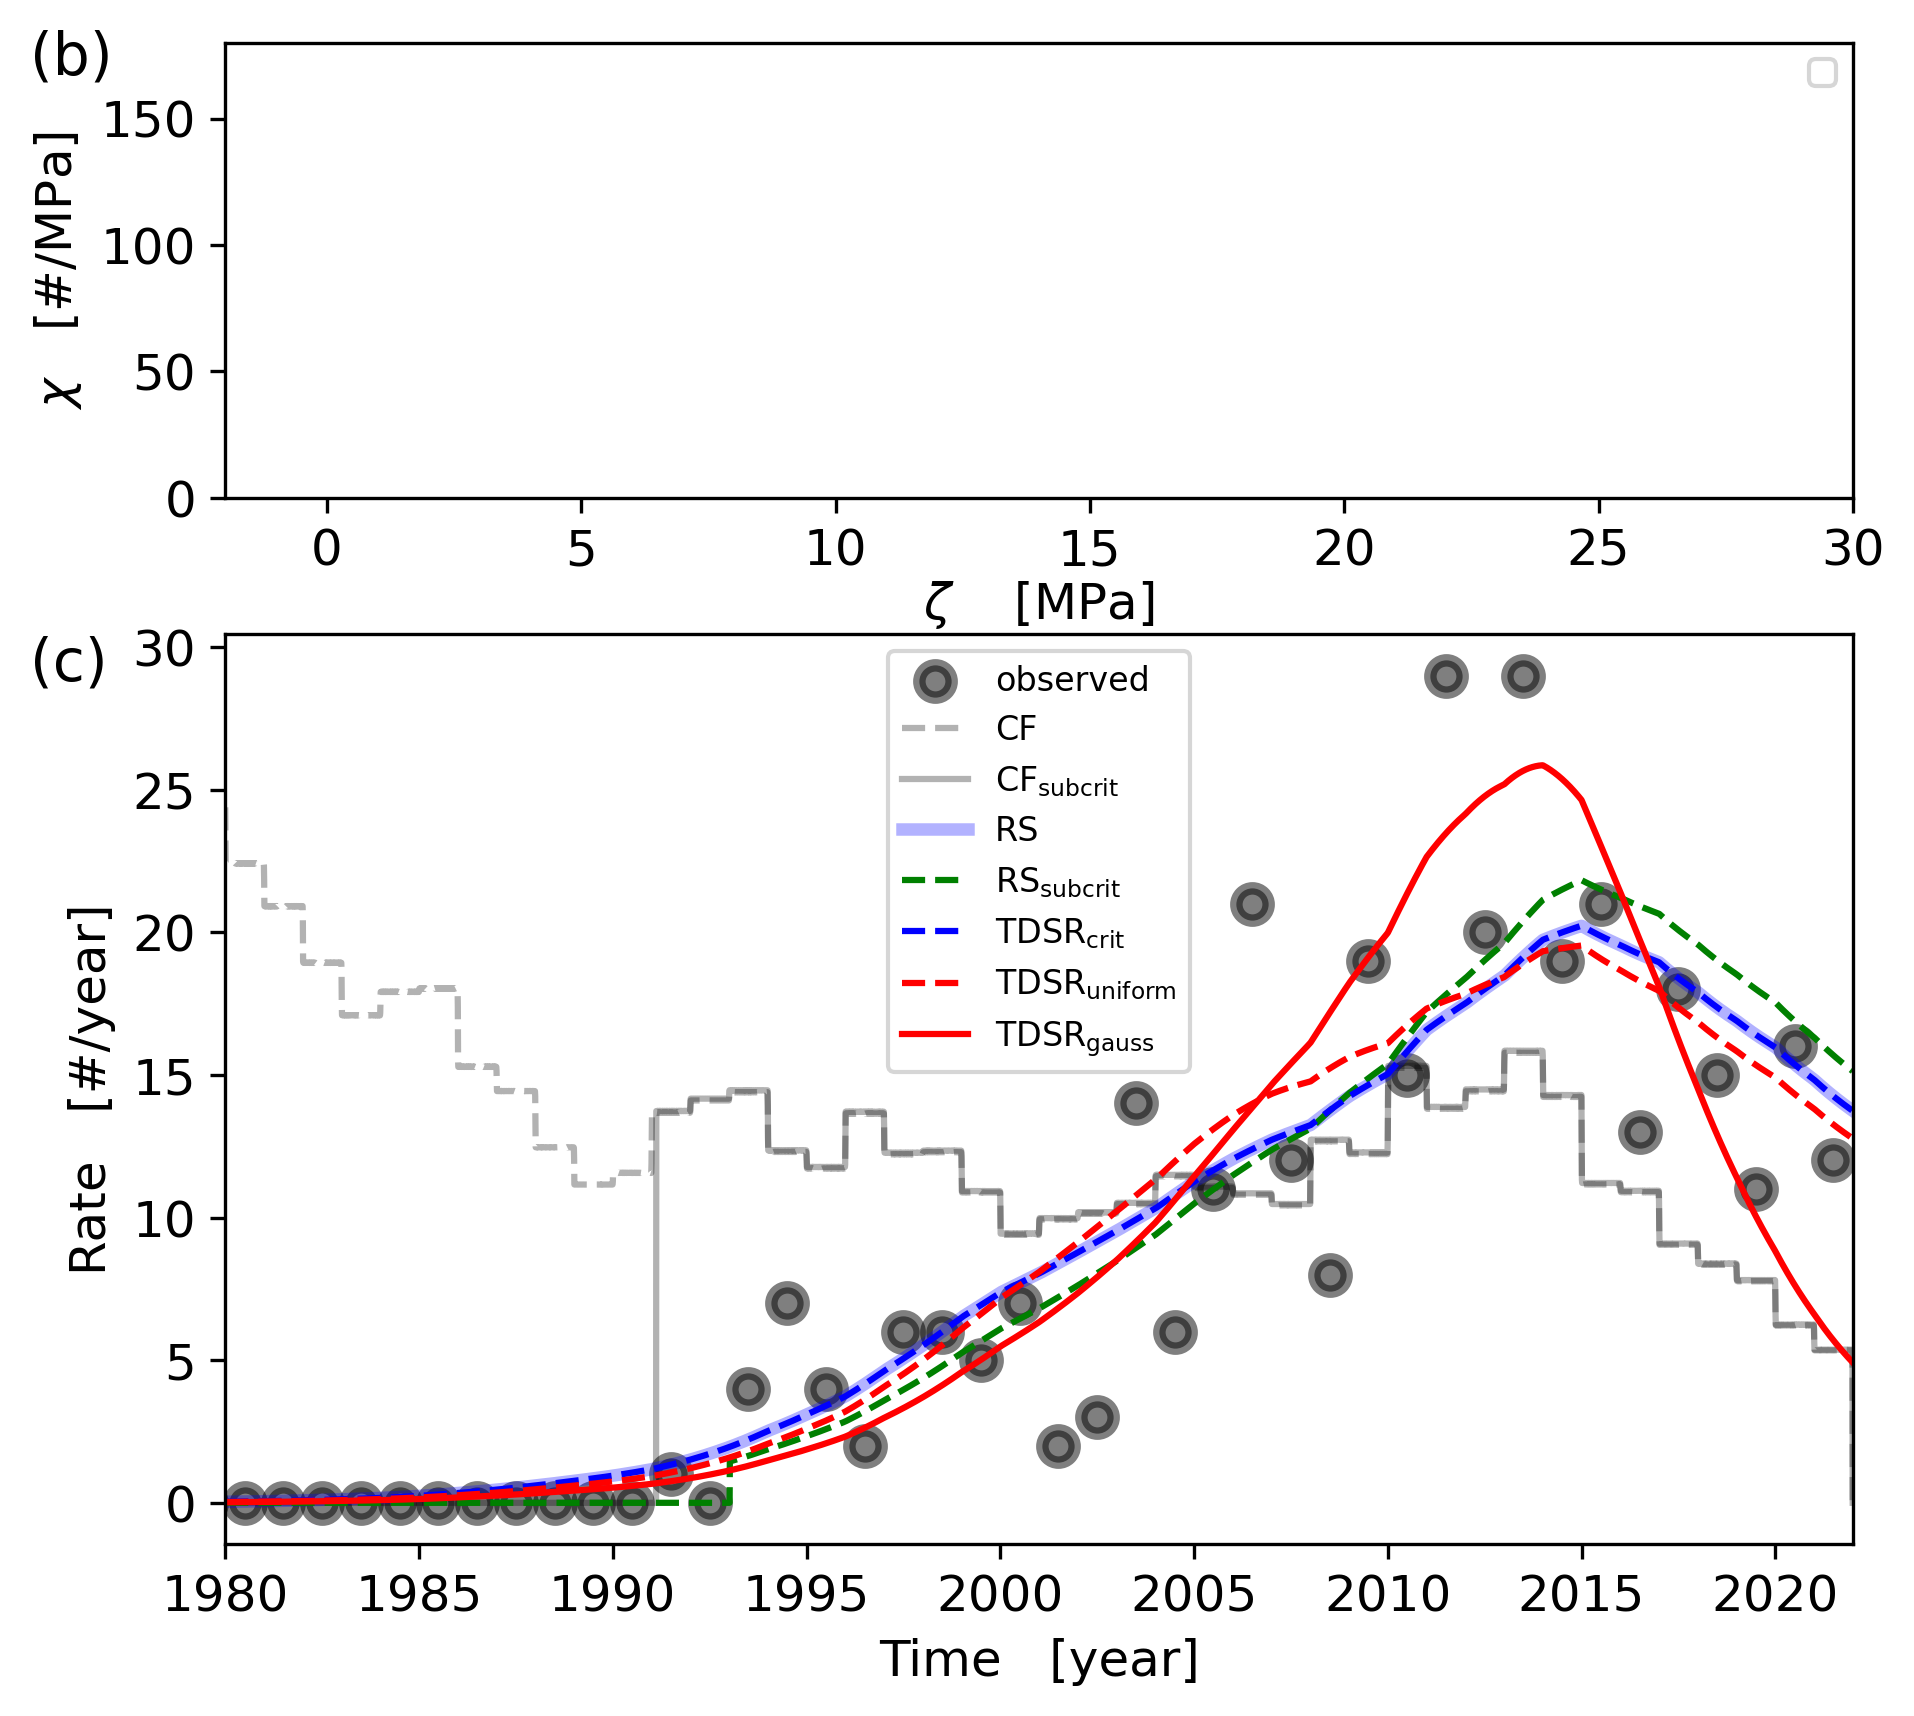
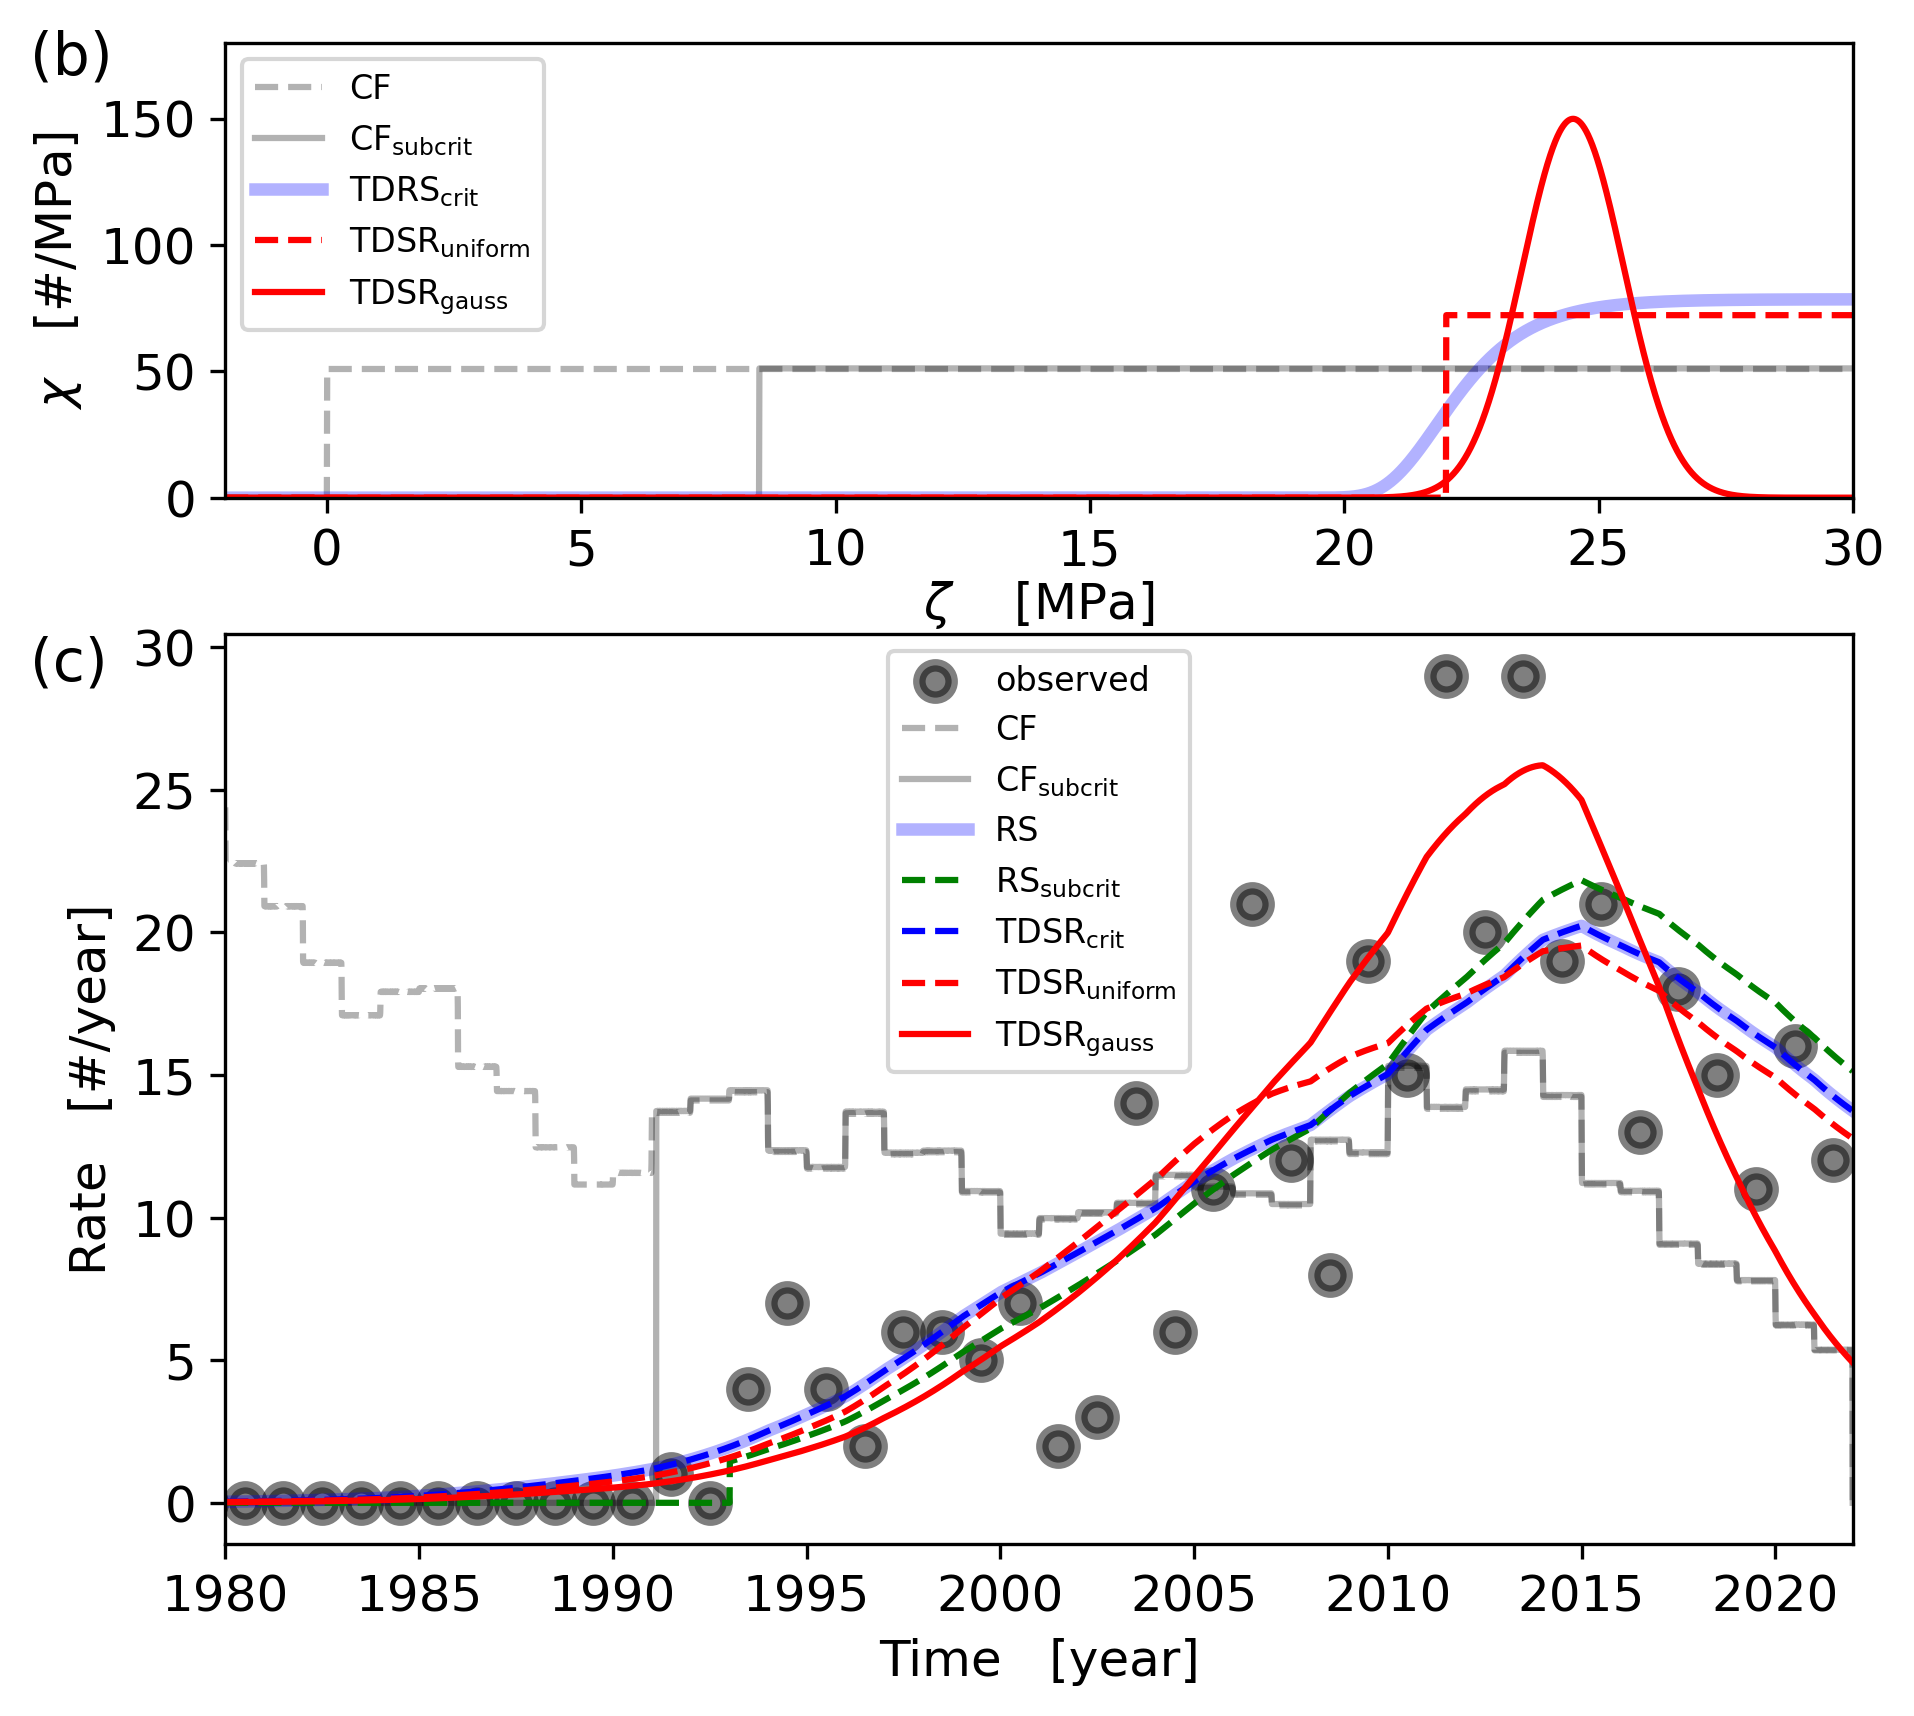
example fig5bc completed

Changed region(s): [[0.1233, 0.0618, 0.9864, 0.3089], [0.1233, 0.0309, 0.2774, 0.2162]]

diff --git a/examples/example_fig5bc.py b/examples/example_fig5bc.py
@@ -17,6 +17,7 @@ sys.path.insert(0, str(REPO_ROOT))
 
 from tdsr import TDSR1, CFM, RSD, RSD1  # noqa: E402
 from tdsr.loading import CustomLoading  # noqa: E402
+from tdsr.utils import Zvalues, X0uniform, X0steady, X0gaussian
 
 figname = REPO_ROOT / "plots/fig5bc"
 
@@ -119,8 +120,8 @@ t, chiz, cf, R_CF, xn = cfm(
     **common,
 )
 # renormalize to observed EQ-number within [T1, T2]:
-fac = NEQ / np.sum(R_CF[((tgrid[0:nt] >= T1) & (tgrid[0:nt] <= T2))] * dt)
-R_CF *= fac
+facCFc = NEQ / np.sum(R_CF[((tgrid[0:nt] >= T1) & (tgrid[0:nt] <= T2))] * dt)
+R_CF *= facCFc
 
 # CF model with subcritical initial stress state:
 t, chiz, cf, R_CFsub, xn = cfm(
@@ -128,8 +129,8 @@ t, chiz, cf, R_CFsub, xn = cfm(
     Sshadow=dS0,
     **common,
 )
-fac = NEQ / np.sum(R_CFsub[((tgrid[0:nt] >= T1) & (tgrid[0:nt] <= T2))] * dt)
-R_CFsub *= fac
+facCFsub = NEQ / np.sum(R_CFsub[((tgrid[0:nt] >= T1) & (tgrid[0:nt] <= T2))] * dt)
+R_CFsub *= facCFsub
 
 # RS model for critical initial stress state:
 t, chiz, cf, R_RS, xn = rsd1(
@@ -146,8 +147,8 @@ t, chiz, cf, R_TDSR, xn = tdsr(
     Sshadow=0.0,
     **common,
 )
-fac = NEQ / np.sum(R_TDSR[((tgrid[0:nt] >= T1) & (tgrid[0:nt] <= T2))] * dt)
-R_TDSR *= fac
+facS = NEQ / np.sum(R_TDSR[((tgrid[0:nt] >= T1) & (tgrid[0:nt] <= T2))] * dt)
+R_TDSR *= facS
 
 # assuming that no faults exists under critical stress
 # (needed for TDSR and RS)
@@ -169,8 +170,8 @@ t, chiz, cf, R_TDSRsub_uniform, xn = tdsr(
     iX0="uniform",
     **common,
 )
-fac = NEQ / np.sum(R_TDSRsub_uniform[((tgrid[0:nt] >= T1) & (tgrid[0:nt] <= T2))] * dt)
-R_TDSRsub_uniform *= fac
+facSsub_uniform = NEQ / np.sum(R_TDSRsub_uniform[((tgrid[0:nt] >= T1) & (tgrid[0:nt] <= T2))] * dt)
+R_TDSRsub_uniform *= facSsub_uniform
 
 # TDSR model with gaussian subcritical prestress:
 t, chiz, cf, R_TDSRsub_gauss, xn = tdsr(
@@ -189,7 +190,12 @@ plt.rc("font", family="sans-serif")
 plt.rc("font", size=12)
 plt.rc("legend", fontsize=8)
 fig, ax = plt.subplots(2, 1, gridspec_kw={"height_ratios": [1, 2]}, figsize=(7, 6.5))
-
+Z = Zvalues(S, 0.0, 0.0, dsig)
+ax[0].plot(Z, facCFc*X0uniform(Z, 0.0, 1.0), c='k', ls='dashed', alpha=0.3, label=r'CF')
+ax[0].plot(Z, facCFsub*X0uniform(Z, dS0, 1.0), c='k', alpha=0.3, label=r'CF$_\mathrm{subcrit}$')
+ax[0].plot(Z, facS*X0steady(Z,1.0*dotsigc,t0,dsig,dotsigc), c='b', lw=3, alpha=0.3, label=r'TDRS$_\mathrm{crit}$')
+ax[0].plot(Z, facSsub_uniform*X0uniform(Z, dS0_TDSR, 1.0), 'r--', label=r'TDSR$_\mathrm{uniform}$')
+ax[0].plot(Z, fac*X0gaussian(Z, dS0mean, dS0std, 1.0), 'r-', label=r'TDSR$_\mathrm{gauss}$')
 ax[0].set_xlim(-2, 30)
 ax[0].set_ylim(0, 180)
 ax[0].set_xlabel(r"$\zeta$    [MPa]", labelpad=1)

diff --git a/tdsr/tdsr.py b/tdsr/tdsr.py
@@ -335,7 +335,7 @@ class TDSR1(object):
         (self.smin, self.smax, self.nsigma, self.sigma, self.dZ) = gridrange(
             -config.sigma_max, +config.sigma_max, config.deltaS
         )
-        print("taxis_log=", config.taxis_log, " ntlog=", config.ntlog)
+        #print("taxis_log=", config.taxis_log, " ntlog=", config.ntlog)
         if config.taxis_log:
             (self.tmin, self.tmax, self.nt, self.t, self.dt) = gridrange_log(
                 config.tstart, config.tend, config.ntlog
@@ -493,7 +493,7 @@ class RSM(LCM):
         dS = np.ediff1d(self.cf, to_end=config.loading.strend)
         rinfty = config.chi0 * config.loading.strend
         Asig = -config.depthS
-        print("Asig", Asig)
+        #print("Asig", Asig)
         gamma = 1.0
         ratez[0] = 1.0
         for i in range(1, self.nt):
@@ -532,7 +532,7 @@ class RSD(LCM):
 
         rinfty = config.chi0 * config.loading.strend
         Asig = -config.depthS
-        print("Asig", Asig)
+        #print("Asig", Asig)
         gamma = 1.0
         ratez[0] = 1.0
         for i in range(1, self.nt):
